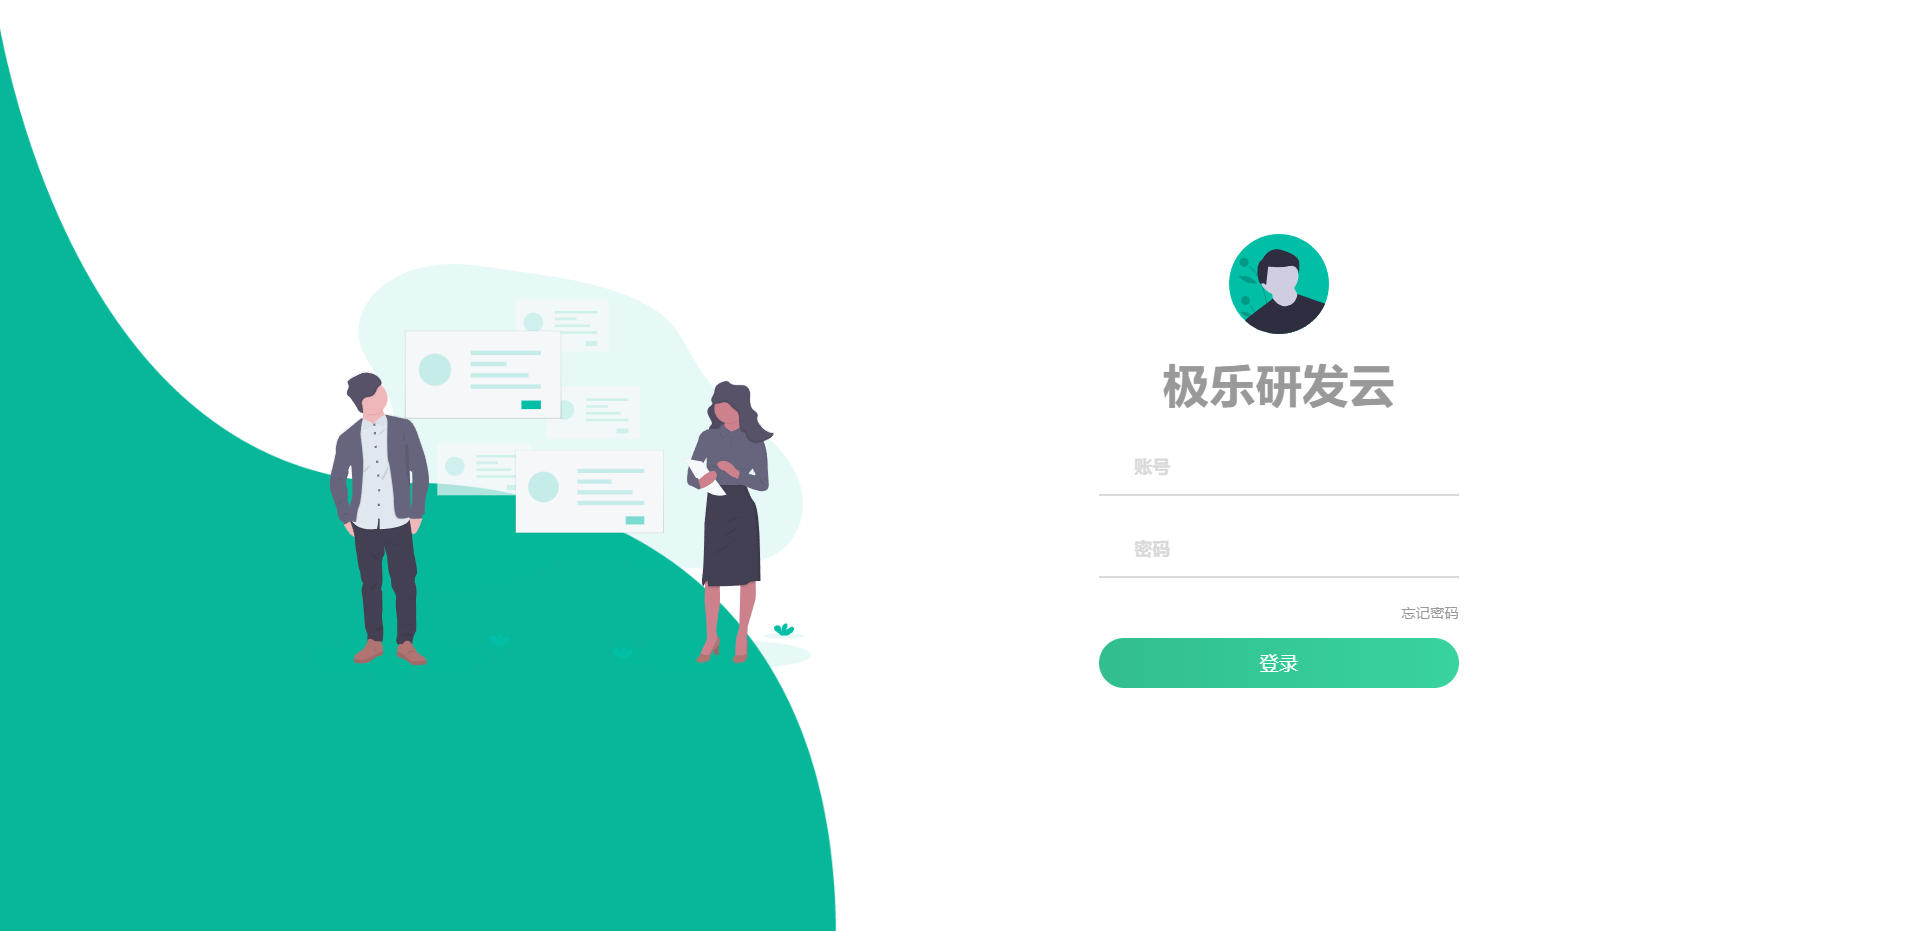
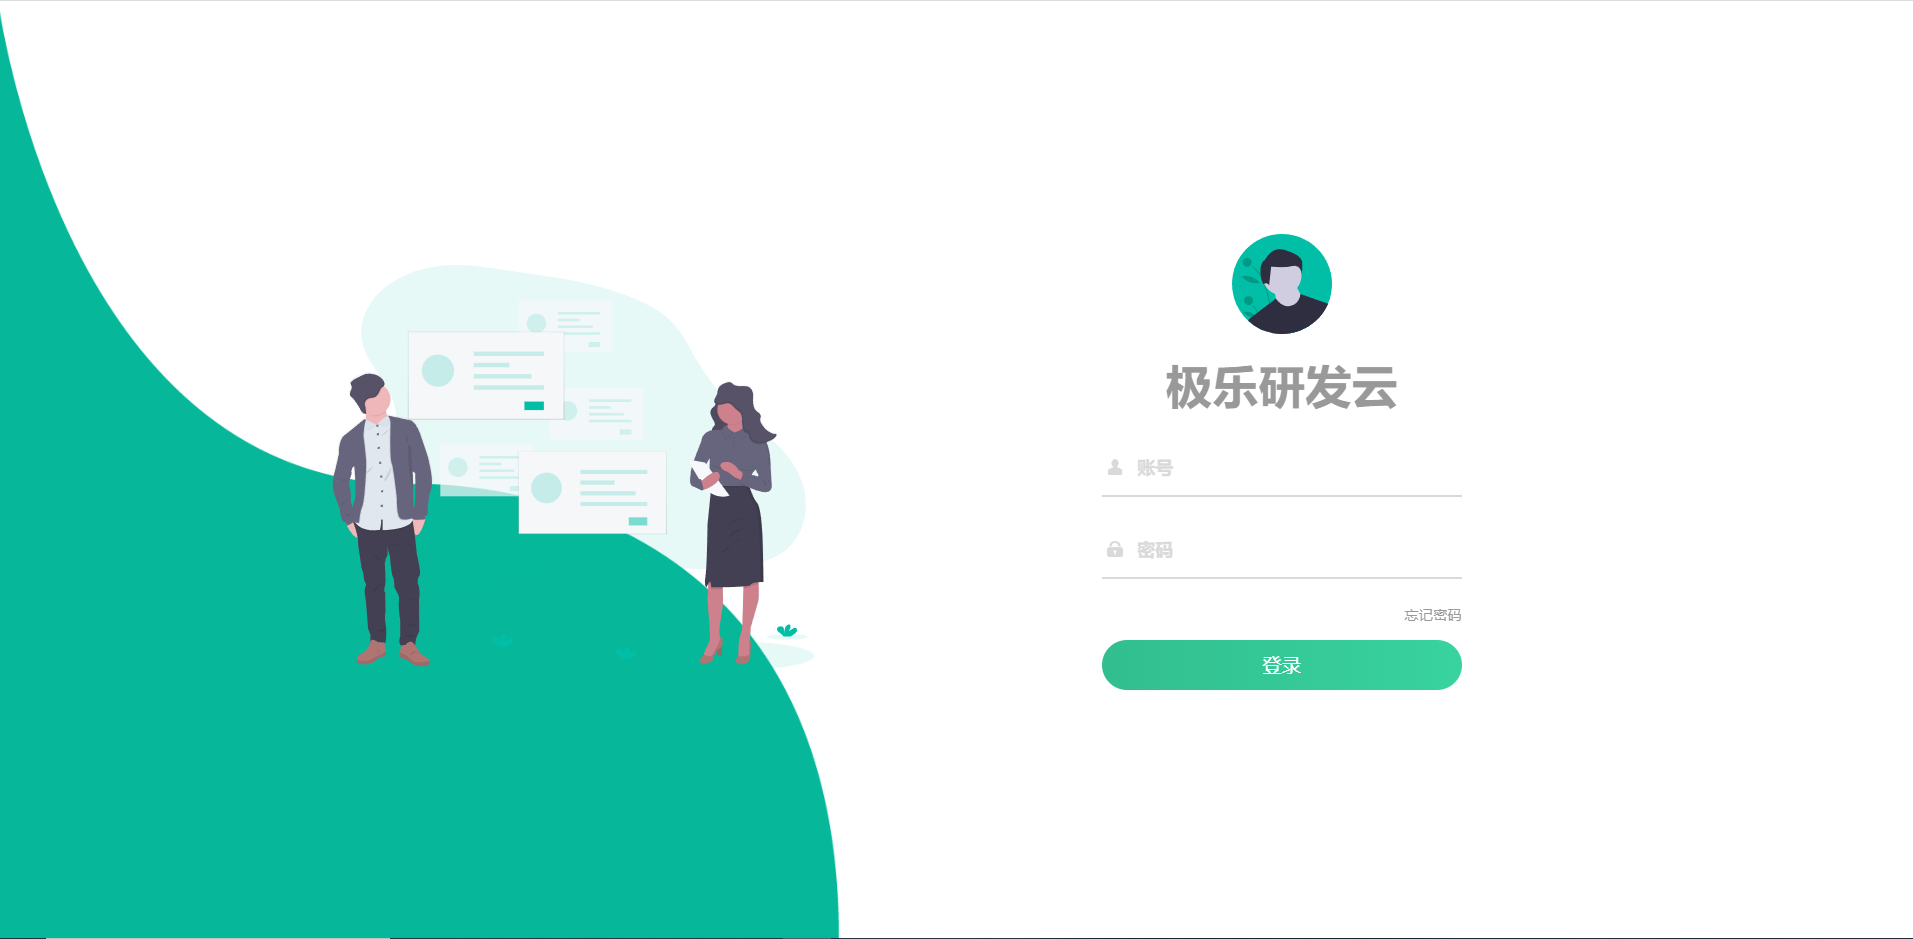
新登录页面补充

diff --git a/day17/devcloud/src/views/keyauth/login/new.vue b/day17/devcloud/src/views/keyauth/login/new.vue
@@ -9,19 +9,19 @@
             <form action="">
                 <img src="@/assets/login/avatar.svg" alt="" class="avatar">
                 <h2>极乐研发云</h2>
-                <div class="input-group">
-                    <div class="icon">
-                        <i class="fa fa-user"></i>
-                    </div>
+                <div id="username" class="input-group">
+                    <span class="svg-container">
+                        <svg-icon icon-class="user" />
+                    </span>
                     <div>
                         <h5>账号</h5>
                         <input v-model="loginForm.username" type="text" class="input">
                     </div>
                 </div>
-                <div class="input-group">
-                    <div class="icon">
-                        <i class="fa fa-lock"></i>
-                    </div>
+                <div id="password" class="input-group">
+                    <span class="svg-container">
+                        <svg-icon icon-class="password" />
+                    </span>
                     <div>
                         <h5>密码</h5>
                         <input v-model="loginForm.password" type="password" class="input">
@@ -56,6 +56,23 @@ export default {
       this.addEventHandler()
     },
     methods: {
+        shake(elemId) {
+            let elem = document.getElementById(elemId)
+			if (elem) {
+				elem.classList.add('shake')
+				setTimeout(()=>{ elem.classList.remove('shake') }, 800)
+			}
+        },
+        check() {
+            if (this.loginForm.username === '') {
+                this.shake('username')
+                return false
+            }
+            if (this.loginForm.password === '') {
+                this.shake('password')
+                return false
+            }
+        },
         addEventHandler() {
             const inputs = document.querySelectorAll(".input");
 
@@ -75,29 +92,26 @@ export default {
                 input.addEventListener('blur',blurFunction);
             });  
         },
-        handleLogin() {
-            this.$refs.loginForm.validate(async (valid) => {
-                if(valid) {
-                    this.loading = true
-                    try {
-                        // 调用后端接口进行登录, 状态保存到vuex中
-                        await this.$store.dispatch('user/login', this.loginForm)
+        async handleLogin() {
+            if (this.check()) {
+                this.loading = true
+                try {
+                    // 调用后端接口进行登录, 状态保存到vuex中
+                    await this.$store.dispatch('user/login', this.loginForm)
 
-                        // 调用后端接口获取用户profile, 状态保存到vuex中
-                        const user = await this.$store.dispatch('user/getInfo')
-                        console.log(user)                        
-                    } catch (error) {
-                        console.log(error)
-                        return
-                    } finally {
-                        this.loading = false
-                    }
-                    
-                    
-                    // 登陆成功, 重定向到Home或者用户指定的URL
-                    this.$router.push({ path: this.$route.query.redirect || '/', query: this.otherQuery })
+                    // 调用后端接口获取用户profile, 状态保存到vuex中
+                    const user = await this.$store.dispatch('user/getInfo')
+                    console.log(user)                        
+                } catch (error) {
+                    console.log(error)
+                    return
+                } finally {
+                    this.loading = false
                 }
-            })
+                
+                // 登陆成功, 重定向到Home或者用户指定的URL
+                this.$router.push({ path: this.$route.query.redirect || '/', query: this.otherQuery })
+            }
         },
         showPwd() {
             if (this.passwordType === 'password') {

diff --git a/day17/devcloud/src/layout/components/Navbar.vue b/day17/devcloud/src/layout/components/Navbar.vue
@@ -2,22 +2,20 @@
   <div class="navbar">
     <!-- logo -->
     <div class="logo-container">
-      <span>极乐研发云</span>
+      <span class="title">极乐研发云</span>
     </div>
     <!-- 主导航栏 -->
     <div class="navbar-main">
-      <el-menu :default-active="activeIndex" mode="horizontal" menu-trigger="click">
-        <el-menu-item index="dashboard">首页</el-menu-item>
-        <el-menu-item index="product">产品运营</el-menu-item>
-        <el-menu-item index="resource">资源管理</el-menu-item>
-        <el-menu-item index="develop">研发交付</el-menu-item>
-        <el-menu-item index="eventbox">监控告警</el-menu-item>
-      </el-menu>
+      <span>首页</span>
+      <span>产品运营</span>
+      <span>资源管理</span>
+      <span>研发交付</span>
+      <span>监控告警</span>
     </div>
     <!-- 用户信息区 -->
     <div class="navbar-user">
       <el-dropdown>
-        <el-button type="text">
+        <el-button type="text" style="color:white">
           <span>老喻</span>
           <i class="el-icon-arrow-down el-icon--right dropdown-color" />
         </el-button>
@@ -57,7 +55,7 @@ export default {
 .navbar {
   display: flex;
   align-content: center;
-  justify-content: flex-start;
+  justify-content: space-between;
   align-items: center;
 }
 
@@ -65,7 +63,11 @@ export default {
   box-sizing: border-box;
   width: 210px;
   padding-left: 28px;
-  color: #909398;
+  color: rgba(255, 255, 255, 0.8);
+
+  .title {
+    font-size: 20px;
+  }
 }
 
 .navbar ::v-deep .el-menu-item {

diff --git a/day17/devcloud/src/styles/layout.scss b/day17/devcloud/src/styles/layout.scss
@@ -2,23 +2,23 @@ $navbarHeight: 50px;
 
 #app {
     .navbar-container {
+        position: fixed;
         width:100vw;
         height:$navbarHeight;
-        background-color: var(--cb-color-bg-primary,#fff);
-        box-shadow: 0 2px 4px 0 var(--cb-color-shadow,rgba(0,0,0,0.16));
-        position: fixed;
+        line-height: $navbarHeight;
+        background: linear-gradient(to right, #2ebf91, #8360c3);
+        box-shadow: 0 5px 5px -3px var(--cb-color-shadow,rgba(0,0,0,0.16));
     }
     
     .app-wrapper {
         padding-top: $navbarHeight;
+        height: calc(100vh - #{$navbarHeight});
     }
 
     .sidebar-container {
         transition: width 0.28s;
         width: $sideBarWidth !important;
-        height: calc(100vh - #{$navbarHeight});
         float: left;
-        background-color: #f5f5f5;
     }
 
     .main-container {
@@ -26,5 +26,6 @@ $navbarHeight: 50px;
         transition: margin-left .28s;
         margin-left: $sideBarWidth;
         position: relative;
+        background-color: #eff2fa;
     }
 }

diff --git a/day17/devcloud/src/views/keyauth/login/style.scss b/day17/devcloud/src/views/keyauth/login/style.scss
@@ -155,6 +155,14 @@ a:hover{
 .btn:hover{
     background-position: right;
 }
+
+.svg-container {
+    padding-top: 11px;
+    color: #d9d9d9;
+    vertical-align: middle;
+    display: inline-block;
+}
+
 .copyright{
     position: absolute;
     width: 100%;
@@ -164,6 +172,17 @@ a:hover{
     text-align: center;
     font-size: 18px;
     font-family: 'Roboto', sans-serif;
+}
+
+.shake {
+    animation: shake 800ms ease-in-out;
+}
+@keyframes shake {
+    10%, 90% { transform: translate3d(-1px, 0, 0); }
+    20%, 80% { transform: translate3d(+2px, 0, 0); }
+    30%, 70% { transform: translate3d(-4px, 0, 0); }
+    40%, 60% { transform: translate3d(+4px, 0, 0); }
+    50% { transform: translate3d(-4px, 0, 0); }
 }
 
 /*媒体查询*/

diff --git a/day17/devcloud/src/styles/index.scss b/day17/devcloud/src/styles/index.scss
@@ -11,7 +11,8 @@ html {
 body {
     height: 100%;
     margin: 0;
-    font-family: Helvetica Neue, Helvetica, PingFang SC, Hiragino Sans GB, Microsoft YaHei, Arial, sans-serif;
+    font-family: -apple-system,BlinkMacSystemFont,"Segoe UI",Roboto,"Helvetica Neue",Arial,"Noto Sans",sans-serif,"Apple Color Emoji","Segoe UI Emoji","Segoe UI Symbol","Noto Color Emoji";
+    font-size: 1rem;
 }
 
 #app {

diff --git a/day18/devcloud-new-login.md b/day18/devcloud-new-login.md
@@ -78,6 +78,23 @@
 </style>
 ```
 
+调整我们的icon
+```html
+<span class="svg-container">
+    <svg-icon icon-class="password" />
+</span>
+```
+
+调整样式:
+```css
+.svg-container {
+    padding-top: 11px;
+    color: #d9d9d9;
+    vertical-align: middle;
+    display: inline-block;
+}
+```
+
 ## 搬迁Js
 
 原项目的Js处理很简单, 核心就是添加focus和blur的事件处理:
@@ -145,3 +162,64 @@ component: () =>
 
 
 到此我们基础的搬迁工作就完成了, 剩下适配我们的登录逻辑了
+
+## 前端输入验证改造
+
+之前的表单验证:
+```js
+this.$refs.loginForm.validate(async (valid) => {})
+```
+
+我们自己写一个check函数来完成验证, 如果没用输入用户名或者密码 我们就晃动下输入框
+
+网上去找个晃动的样式 放到我们 login的css文件 style.scss中:
+```css
+.shake {
+    animation: shake 800ms ease-in-out;
+}
+@keyframes shake {
+    10%, 90% { transform: translate3d(-1px, 0, 0); }
+    20%, 80% { transform: translate3d(+2px, 0, 0); }
+    30%, 70% { transform: translate3d(-4px, 0, 0); }
+    40%, 60% { transform: translate3d(+4px, 0, 0); }
+    50% { transform: translate3d(-4px, 0, 0); }
+}
+```
+
+然我们写一个动态添加晃动样式的函数和check的函数:
+```js
+shake(elemId) {
+    let elem = document.getElementById(elemId)
+    if (elem) {
+        elem.classList.add('shake')
+        setTimeout(()=>{ elem.classList.remove('shake') }, 800)
+    }
+},
+check() {
+    if (this.loginForm.username === '') {
+        this.shake('username')
+        return false
+    }
+    if (this.loginForm.password === '') {
+        this.shake('password')
+        return false
+    }
+},
+```
+
+我们为我们需要添加样式的元素添加上id:
+```html
+<!-- 账号输入框组 -->
+<div id="username" class="input-group">
+<!-- 密码输入框组 -->
+<div id="password" class="input-group">
+```
+
+最后调整我们的验证函数: handleLogin
+```js
+async handleLogin() {
+    if (this.check()) {
+        // 省略...
+    }
+}
+```
